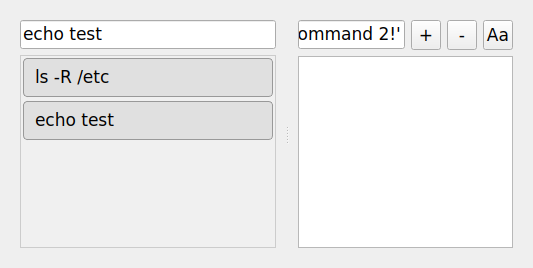
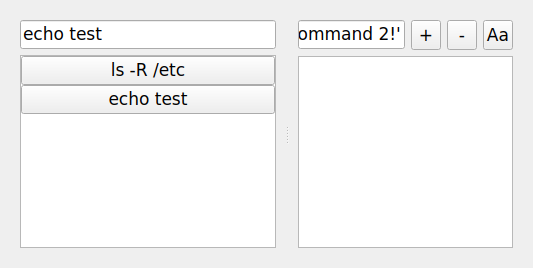
Use native QPushButton widgets in draggable list
Replace CSS-styled list items with actual QPushButton widgets inside QListWidget items. This provides:
- Native Qt button appearance with proper shading and styling
- Maintains drag-drop reordering functionality
- Buttons match the native widget look instead of custom bulky styling

Implementation:
- Create QPushButton for each command and add to QListWidget using setItemWidget()
- Connect button clicks to on_command_button_clicked handler
- Update command management to work with button widgets
- Remove CSS styling that made items look bulky
- Update test to work with button widgets

Changed region(s): [[0.03, 0.209, 0.5403, 0.5373], [0.5103, 0.3881, 0.5403, 0.4179]]

diff --git a/src/cmdbuttons.py b/src/cmdbuttons.py
@@ -161,33 +161,11 @@ class MainWindow(QWidget):
         self.name_input.setPlaceholderText("Name")
         self.left_column.addWidget(self.name_input)
 
-        # Command list
+        # Command list with actual button widgets
         self.command_list = ReorderableListWidget(self)
         for command_name in self.commands:
-            self.command_list.addItem(command_name)
-        self.command_list.itemClicked.connect(self.on_item_clicked)
+            self._add_button_to_list(command_name)
         self.command_list.items_reordered.connect(self.on_items_reordered)
-        # Style the list to look like buttons
-        self.command_list.setStyleSheet("""
-            QListWidget {
-                border: 1px solid #ccc;
-                background-color: #f0f0f0;
-            }
-            QListWidget::item {
-                background-color: #e0e0e0;
-                border: 1px solid #999;
-                border-radius: 4px;
-                padding: 8px;
-                margin: 2px;
-            }
-            QListWidget::item:hover {
-                background-color: #d0d0d0;
-            }
-            QListWidget::item:selected {
-                background-color: #4a90d9;
-                color: white;
-            }
-        """)
 
         self.left_column.addWidget(self.command_list)
         self.left_widget.setLayout(self.left_column)
@@ -237,6 +215,15 @@ class MainWindow(QWidget):
         self.main_layout.addWidget(self.splitter)
 
         self.setLayout(self.main_layout)
+
+    def _add_button_to_list(self, command_name):
+        """Add a command button to the list widget"""
+        item = QListWidgetItem(self.command_list)
+        button = QPushButton(command_name, self)
+        button.clicked.connect(lambda checked, name=command_name: self.on_command_button_clicked(name))
+        item.setSizeHint(button.sizeHint())
+        self.command_list.addItem(item)
+        self.command_list.setItemWidget(item, button)
 
     @pyqtSlot()
     def on_add_button_clicked(self):
@@ -293,20 +280,22 @@ class MainWindow(QWidget):
 
         # Remove items for commands that have been removed
         for command_name in removed_commands:
-            items = self.command_list.findItems(command_name, Qt.MatchExactly)
-            for item in items:
-                self.command_list.takeItem(self.command_list.row(item))
+            for i in range(self.command_list.count()):
+                item = self.command_list.item(i)
+                widget = self.command_list.itemWidget(item)
+                if widget and widget.text() == command_name:
+                    self.command_list.takeItem(i)
+                    break
 
         # Add new items for added commands
         for command_name in added_commands:
-            self.command_list.addItem(command_name)
+            self._add_button_to_list(command_name)
 
         # Update the commands dictionary
         self.commands = new_commands
 
-    @pyqtSlot(QListWidgetItem)
-    def on_item_clicked(self, item):
-        command_name = item.text()
+    def on_command_button_clicked(self, command_name):
+        """Handle command button click"""
         command = self.commands[command_name]
 
         self.name_input.setText(command_name)
@@ -328,12 +317,14 @@ class MainWindow(QWidget):
 
     @pyqtSlot()
     def on_items_reordered(self):
-        # Get the new order from the list widget
+        # Get the new order from the list widget buttons
         ordered_commands = []
         for i in range(self.command_list.count()):
             item = self.command_list.item(i)
-            command_name = item.text()
-            ordered_commands.append({"name": command_name, "command": self.commands[command_name]})
+            widget = self.command_list.itemWidget(item)
+            if widget:
+                command_name = widget.text()
+                ordered_commands.append({"name": command_name, "command": self.commands[command_name]})
 
         # Save to YAML
         with open(self.command_file, 'w') as yamlfile:

diff --git a/test_screenshot.py b/test_screenshot.py
@@ -82,8 +82,10 @@ print(f"Screenshot 2 saved to {screenshot_path}")
 # Click on the first command in the list to run it (which is now "echo test")
 if window.command_list.count() > 0:
     item = window.command_list.item(0)
-    window.command_list.setCurrentItem(item)
-    window.on_item_clicked(item)
+    widget = window.command_list.itemWidget(item)
+    if widget:
+        # Trigger button click directly
+        window.on_command_button_clicked(widget.text())
     QTest.qWait(1000)  # Wait for command output
 
 # Take final snapshot after execution
